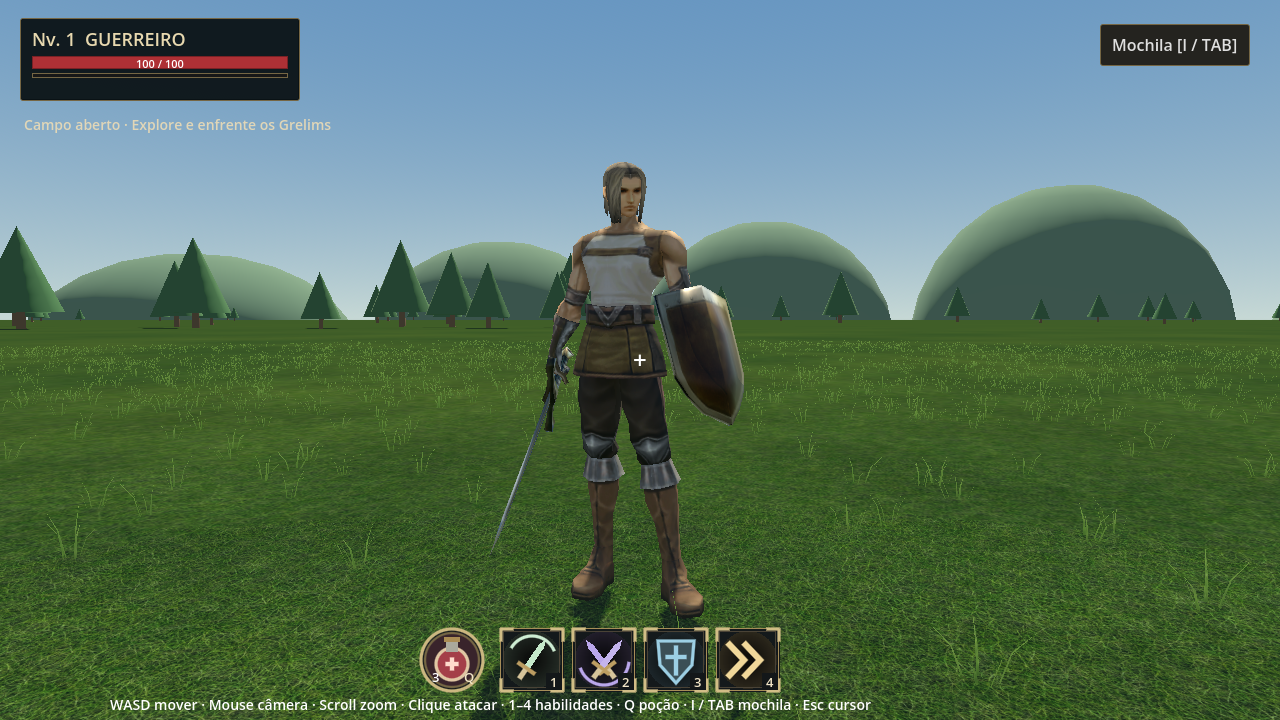
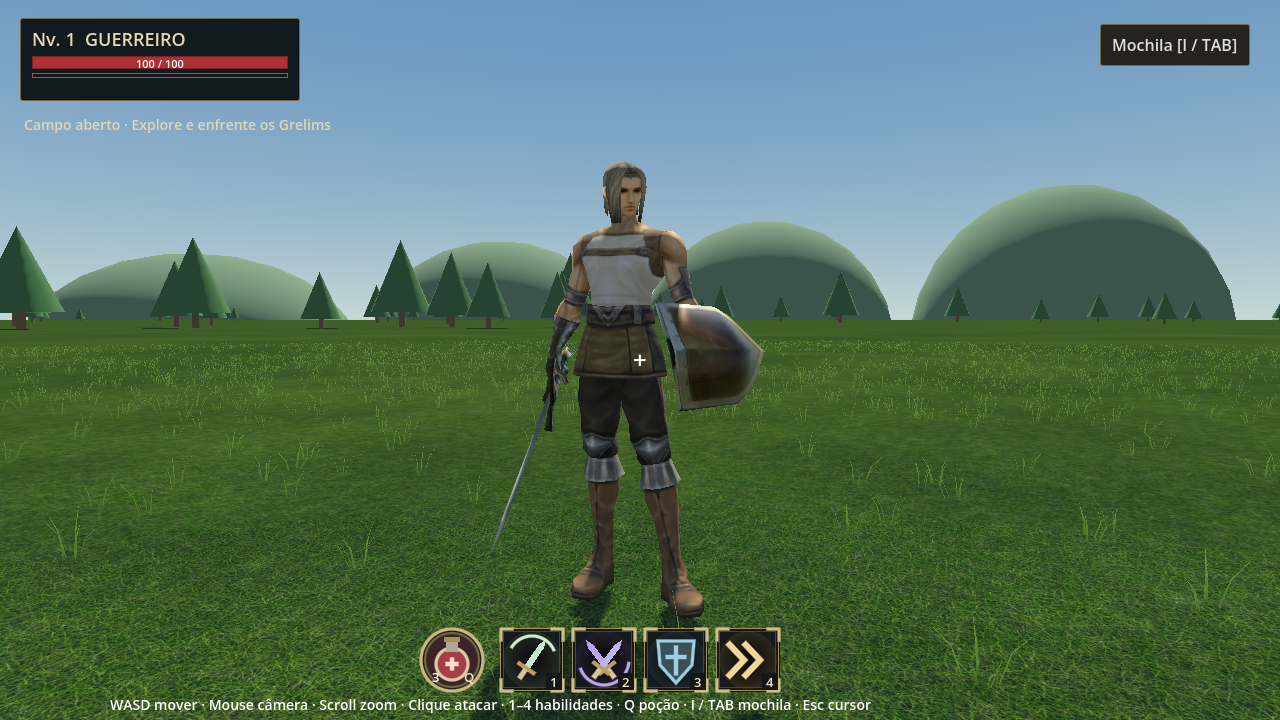
Lay shield sideways across the forearm with tip outward

Changed region(s): [[0.5, 0.3972, 0.5938, 0.5806], [0.5625, 0.9778, 0.5938, 1.0]]

diff --git a/rpg3d/README.md b/rpg3d/README.md
@@ -57,6 +57,6 @@ A montagem do cabelo inclui as duas partes originais `MFighter_m000_m00_ah` e `M
 
 A ponta fina que parecia sair da espada vinha de uma influência descartada na malha M001 da luva: havia um nome de osso de dedo duplicado. Os nomes do esqueleto foram normalizados pela ordem e hierarquia do M000, preservando os pesos e a geometria. O GLB não contém mais a influência neutral_bone. A origem e os aliases corrigidos estão em assets/human_fighter_textures.json.
 
-O guerreiro começa também com o Small Shield original no braço esquerdo (Shield_L_Bone). O escudo possui ícone no inventário e pode ser equipado ou guardado; acompanha as animações. Seguindo a referência enviada, o painel acompanha o antebraço, com a borda superior próxima do cotovelo e a mão atrás da madeira. A postura aplica uma torção de 30° ao antebraço esquerdo enquanto o escudo está equipado, preservando os clipes originais. A empunhadura tem 6,5 cm e as tiras de couro se ligam à madeira, sem barras metálicas compridas. A prévia do inventário usa a mesma postura. O espaço entre a luva e a madeira é verificado nas poses importadas, incluindo o fim do golpe. Nesta etapa é um equipamento visual, sem bônus passivo adicional. A espada mantém seu encaixe no socket original da mão direita.
+O guerreiro começa também com o Small Shield original no braço esquerdo (Shield_L_Bone). O escudo possui ícone no inventário e pode ser equipado ou guardado; acompanha as animações. O painel fica deitado transversalmente ao antebraço, com giro de 90° e a ponta voltada para fora, mantendo a mão atrás da madeira. A postura aplica uma torção de 30° ao antebraço esquerdo enquanto o escudo está equipado, preservando os clipes originais. A empunhadura tem 6,5 cm e as tiras de couro se ligam à madeira, sem barras metálicas compridas. A prévia do inventário usa a mesma postura. O espaço entre a luva e a madeira é verificado nas poses importadas, incluindo o fim do golpe. Nesta etapa é um equipamento visual, sem bônus passivo adicional. A espada mantém seu encaixe no socket original da mão direita.
 
-[Veja a postura do escudo no jogo](../docs/shield-reference-fit.png).
+[Veja a postura do escudo no jogo](../docs/shield-reference-fit.png) e [na prévia do inventário](../docs/shield-sideways-inventory.png).
